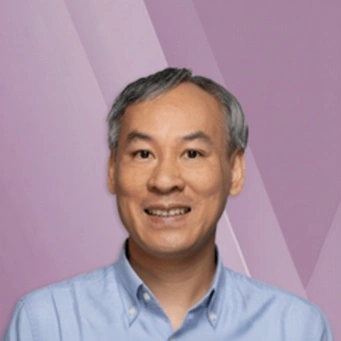
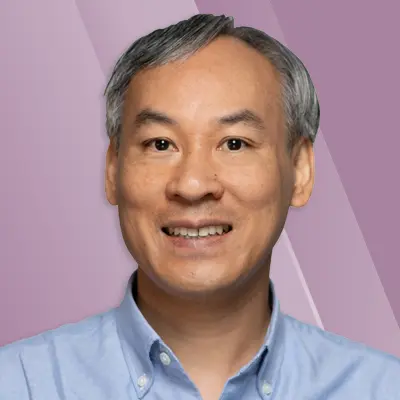
updates

diff --git a/index.html b/index.html
@@ -6,9 +6,9 @@
 
 <head>
     <meta charset="utf-8">
-    <title>Research Integrity in the GenAI Age Symposium</title>
+    <title>Research Integrity in the GenAI Era Symposium</title>
     <meta name="description"
-        content="Research Integrity in the GenAI Age Symposium-May 29, 2026 at The University of Hong Kong">
+        content="Research Integrity in the GenAI Era Symposium-May 29, 2026 at The University of Hong Kong">
     <meta name="viewport" content="width=device-width, initial-scale=1.0">
     <link rel="shortcut icon" href="images/favicon.ico">
 
@@ -27,7 +27,7 @@
     <nav class="navbar navbar-default navbar-fixed-top navbar-custom">
         <div class="container">
             <div class="navbar-header">
-                <a class="navbar-brand" href="#home">HKU Research Integrity in the GenAI Age Symposium 2026</a>
+                <a class="navbar-brand" href="#home">HKU Research Integrity in the GenAI Era Symposium 2026</a>
             </div>
         </div>
     </nav>
@@ -56,7 +56,7 @@
                             <strong>Date:</strong> Friday, May 29, 2026
                         </div>
                         <div class="programme-item">
-                            <strong>Time:</strong> 9:00am to 5:30pm
+                            <strong>Time:</strong> 9:00am - 5:30pm
                         </div>
                         <div class="programme-item">
                             <strong>Venue:</strong> The Grand Hall, Lee Shau Kee Lecture Centre, CPD LG/F, Centennial
@@ -116,12 +116,12 @@
                                 </tr>
                                 <tr>
                                     <td>9:35am-9:55am</td>
-                                    <td>Opening address</td>
-                                    <td>-</td>
+                                    <td>Opening remarks</td>
+                                    <td>Professor James TANG, Dr. Ping Chung NG, Mr. David FOSTER</td>
                                 </tr>
                                 <tr>
                                     <td></td>
-                                    <td>Welcome speech</td>
+                                    <td>Welcome message</td>
                                     <td>TBC</td>
                                 </tr>
                                 <tr>
@@ -131,14 +131,14 @@
                                 </tr>
                                 <tr>
                                     <td>10:00am-10:20am</td>
-                                    <td>-</td>
+                                    <td>AI as a Partner in Mathematical Discovery</td>
                                     <td>Professor Xuhua HE</td>
                                 </tr>
-                                <!-- <tr>
+                                <tr>
                                     <td>10:20am-10:40am</td>
+                                    <td>Coffee Break</td>
                                     <td>-</td>
-                                    <td>-</td>
-                                </tr> -->
+                                </tr>
                                 <tr>
                                     <td>10:40am-12:00pm</td>
                                     <td>AI Across Disciplines</td>
@@ -160,25 +160,15 @@
                                     <td>-</td>
                                 </tr>
                                 <tr>
-                                    <td>1:30pm-2:50pm</td>
-                                    <td>AI and Research Integrity Frameworks</td>
-                                    <td>Moderator: Dr. Wai Lan TSANG</td>
-                                </tr>
-                                <!-- <tr>
-                                    <td></td>
-                                    <td>Awareness of AI in Responsible Conduct of Research (TBC)</td>
+                                    <td>1:30pm-2:10pm</td>
+                                    <td>From Principles to Practice: Governing AI Use in Research</td>
                                     <td>Dr. De Ming CHAU</td>
                                 </tr>
                                 <tr>
-                                    <td>2:00pm-2:30pm</td>
-                                    <td>Coffee Break</td>
-                                    <td>-</td>
-                                </tr>
-                                <tr>
-                                    <td></td>
-                                    <td>AI in Publication (TBC)</td>
+                                    <td>2:10pm-2:50pm</td>
+                                    <td>GenAI in Scholarly Publising: Balancing Inovation with Integrity</td>
                                     <td>Dr. Trevor LANE</td>
-                                </tr> -->
+                                </tr>
                                 <tr>
                                     <td>2:50pm-3:20pm</td>
                                     <td>Responsible Conduct of Research in the AI Era</td>
@@ -196,7 +186,7 @@
                                 </tr>
                                 <tr>
                                     <td>3:20pm-3:50pm</td>
-                                    <td>Coffee</td>
+                                    <td>Coffee Break</td>
                                     <td>-</td>
                                 </tr>
                                 <tr>
@@ -264,9 +254,9 @@
                 <!-- Speaker 3 -->
                 <div class="col-sm-6 col-md-6">
                     <div class="speaker-card">
-                        <img class="speaker-image" src="images/lizjackson.webp" alt="Dr. De Ming Chau" />
+                        <img class="speaker-image" src="images/lizjackson.webp" alt="Professor Liz Jackson" />
                         <div class="speaker-name">Professor Liz Jackson</div>
-                        <!-- <div class="speaker-title">AI in Social Sciences and Humanities Research</div> -->
+                        <div class="speaker-title">Faculty of Education, The University of Hong Kong</div>
                         <p class="speaker-bio">Professor Liz Jackson is the Karen Lo Eugene Chuang Professor in
                             Diversity and Equity and Associate Dean (Research) at the Faculty of Education, HKU. Her
                             research examines the sociology and philosophy of education, with an emphasis on diversity
@@ -280,7 +270,7 @@
                     <div class="speaker-card">
                         <img class="speaker-image" src="images/demingchau.webp" alt="Dr. De Ming Chau" />
                         <div class="speaker-name">Dr. De Ming Chau</div>
-                        <!-- <div class="speaker-title">From Principles to Practice: Governing AI Use in Research</div> -->
+                        <div class="speaker-title">Governing Board Member, The World Conferences on Research Integrity Foundation</div>
                         <p class="speaker-bio">Dr. De Ming Chau is a Senior Lecturer in the Department of Biomedical
                             Sciences at Universiti Putra Malaysia, Malaysia. With over a decade of experience leading
                             research integrity workshops for students and academics, he has become a key advocate for
@@ -304,7 +294,7 @@
                             communication, he serves as a Trustee of the Committee on Publication Ethics (COPE), and
                             previously served as Council Member. In these roles, he has led educational initiatives on
                             responsible research conduct and publication ethics. He was also a co-author of the Good
-                            Publication Practice (GPP) Guid</p>
+                            Publication Practice (GPP) Guidlines for Company-Sponsored Biomedical Research: 2022 update.</p>
                     </div>
                 </div>
 

diff --git a/css/style.css b/css/style.css
@@ -214,8 +214,8 @@
 }
 
 .speaker-image {
-	width: 50%;
-	height: auto;
+	width: 300px;
+	height: 300px;
 	border-radius: 8px;
 	margin: 0 auto 18px;
 	display: block;